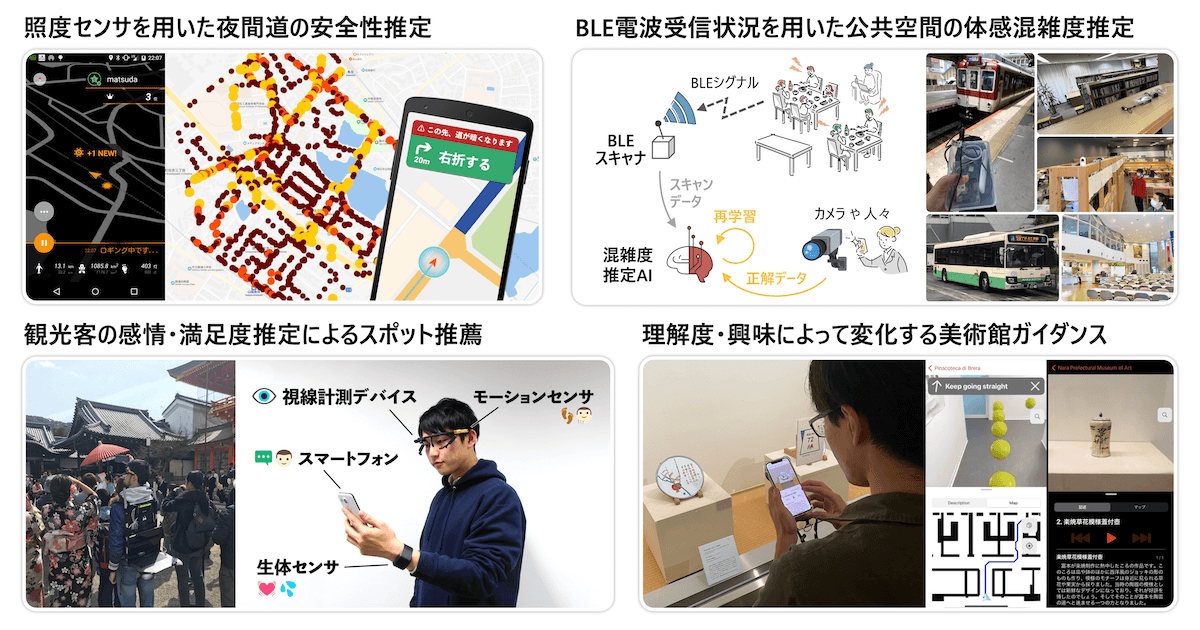
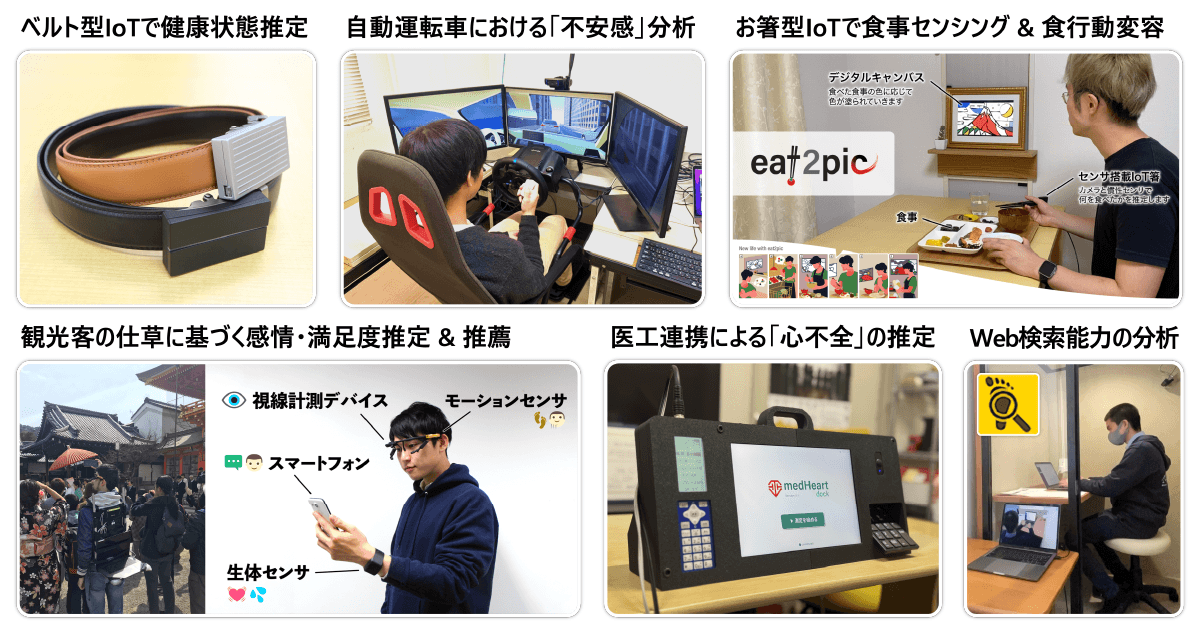
update 202609211037

diff --git a/docs/project/index.html b/docs/project/index.html
@@ -69,31 +69,10 @@
     <nav class="clearfix">
       <ul>
         <li @click="scrollToH3('overview')">概要</li>
-        <li @click="scrollToH3('project-iopt')">IoT・人から見える「世界」を理解し、ナビする
-          <ul>
-            <li @click.stop="scrollToH5('breid-walk')">BReID Walk</li>
-            <li @click.stop="scrollToH5('breid-bus')">BReID Bus</li>
-            <li @click.stop="scrollToH5('blece')">BLECE</li>
-            <li @click.stop="scrollToH5('emotour')">EmoTour</li>
-            <li @click.stop="scrollToH5('museum-guide')">Convivial Museum Guide</li>
-            <li @click.stop="scrollToH5('musemate')">MuseMate</li>
-            <li @click.stop="scrollToH5('sorashiru')">ソラシル</li>
-            <li @click.stop="scrollToH5('discaas')">DisCaaS</li>
-          </ul>
-        <li @click="scrollToH3('project-device')">新しいIoT・AIを発明する
-          <ul>
-            <li @click.stop="scrollToH5('abacaas')">AbaCaaS</li>
-            <li @click.stop="scrollToH5('calcquest')">CalcQuest</li>
-            <li @click.stop="scrollToH5('tongar')">Tongar</li>
-          </ul>
-        <li @click="scrollToH3('project-platform')">データ収集・活用基盤を社会実装する
-          <ul>
-            <li @click.stop="scrollToH5('tameshiba')">ためしば</li>
-            <li @click.stop="scrollToH5('repot')">レポっと</li>
-            <li @click.stop="scrollToH5('nishorobo')">にしょロボくん</li>
-            <li @click.stop="scrollToH5('minsapo')">みんサポ</li>
-          </ul>
-        </li>
+        <li @click="scrollToH3('human-state-aiot')">人の状態を理解するAIoT</li>
+        <li @click="scrollToH3('human-ability-aiot')">人の能力を育てるAIoT</li>
+        <li @click="scrollToH3('urban-spatial-aiot')">都市・空間の状況を理解するAIoT</li>
+        <li @click="scrollToH3('social-implementation')">研究成果の社会実装</li>
         <li @click="scrollToH3('collabo-proj')">共同研究・連携機関</li>
       </ul>
     </nav>
@@ -101,71 +80,36 @@
       <section id="overview">
         <h3><span>概要</span></h3>
         <div class="clearfix container-flex-right-img">
-          <img src="./img/project-1.png" alt="人から見える「世界」を理解し、ナビする">
-          <h4 class="no-sticky">IoT・人から見える「世界」を理解し、ナビする</h4>
+          <img src="./img/project-1.png" alt="人の状態を理解するAIoTの研究例">
+          <h4 class="no-sticky">人の状態を理解するAIoT</h4>
           <p>
-            人から見えている「世界」は、IoTで観測できる「世界」とは少し異なっていることがあります。
-            IoTがこの“差”を理解できるようになれば、これまでにないナビゲーションや情報推薦が実現できる可能性があります。
-            そのために、人を情報システムに組み込むHuman-in-the-loopなアプローチ（参加型センシングなど）によって、人から見えている「世界」をモデリングする研究について取り組んでいます。
+            ウェアラブルデバイスやカメラ、各種センサを用いて、健康状態、感情、満足度、不安感、食行動などを捉える研究です。人の内面や行動をAIで読み解き、一人ひとりの状況に合った支援や情報推薦につなげることで、安心して健やかに暮らせる社会を目指します。ベルト型IoTによる健康管理や運転時の不安感分析、食事センシング、観光客の感情推定など、多様な場面を対象としています。
           </p>
         </div>
         <div class="clearfix container-flex-right-img">
-          <img src="./img/project-2.png" alt="新しいIoT・AIを発明する">
-          <h4 class="no-sticky">新しいIoT・AIを発明する</h4>
+          <img src="./img/project-2.png" alt="人の能力を育てるAIoTの研究例">
+          <h4 class="no-sticky">人の能力を育てるAIoT</h4>
           <p class="clearfix">
-            現在市販されているIoTを用いることで、様々な人や環境をセンシングしたり情報を提示したりすることが可能ですが、全てが網羅されているわけではありません。新たなIoTやAIを発明することによって、今までにセンシングできなかった情報を得られたり、それに基づく情報提示が実現でる可能性があります。そのために、ハードウェアからソフトウェアに至るまで、IoTのセンシング・データ処理・情報提示の方法を編み出す研究に取り組んでいます。
+            珠算の計算過程、美術鑑賞時の対話、競歩やバランス運動などをセンシングし、学習や技能の向上を支える研究です。AIによる助言や対話、個人に合った情報提示を通して、誰もが楽しみながら主体的に学び、能力を伸ばせる体験の実現を目指します。学習者のつまずきや動作の特徴を捉え、ゲーム要素や対話型AI、ウェアラブル機器を通じて、継続的な挑戦と上達を後押しします。
           </p>
         </div>
         <div class="clearfix container-flex-right-img">
-          <img src="./img/project-3.png" alt="データ収集・活用基盤を社会実装する">
-          <h4 class="no-sticky">データ収集・活用基盤を社会実装する</h4>
+          <img src="./img/project-3.png" alt="都市・空間の状況を理解するAIoTの研究例">
+          <h4 class="no-sticky">都市・空間の状況を理解するAIoT</h4>
           <p class="clearfix">
-            研究開発したIoT・AIを社会実装していくためには、ITに精通していない人々でも簡単に技術を扱うことができ、かつ、持続可能な形で運用できるようなシステム・仕組みを構築することが肝要です。その実現に向けて、街に存在する様々なコミュニティや活動と連携しつつ、システムを運用する方法を実践的に模索する研究に取り組んでいます。
+            BLE電波、照度センサ、カメラなどを活用し、人流や混雑度、夜間道路の安全性、路面や街なかの状態を捉える研究です。プライバシーに配慮しながら都市・交通・生活空間を継続的に観測し、安全で快適なまちづくりに役立つ情報として可視化します。公共交通や駅、商業施設、道路などで収集したデータを分析し、混雑緩和、移動支援、設備点検や環境改善への活用を目指します。
+          </p>
+        </div>
+        <div class="clearfix container-flex-right-img">
+          <img src="./img/project-4.png" alt="研究成果の社会実装例">
+          <h4 class="no-sticky">研究成果の社会実装</h4>
+          <p class="clearfix">
+            研究室で生まれた技術を、学校、地域、企業、文化施設などの現場で活用できる仕組みへ発展させます。地域の人々や連携機関と試行と改善を重ね、専門知識がなくても使いやすく、日々の活動の中で持続的に運用できるシステムやサービスを共につくります。小学校での地域学習、位置情報付き写真の収集、地域イベントの可視化、現場のトラブル支援などを通じて、研究成果を社会へ届けます。
           </p>
         </div>
       </section>
-      <section id="project-iopt">
-        <h3><span>IoT・人から見える「世界」を理解し、ナビする</span></h3>
-        <div id="blece-breid">
-          <h4>BLEを用いた都市・交通空間の人流・混雑度推定</h4>
-          <div class="clearfix container-flex-right-img">
-            <img src="./img/pj-BReID-BLECE.png" alt="BLEを用いた都市・交通空間の人流・混雑度推定">
-            <p>
-              都市や公共交通、飲食店、公共施設などにおいて、「どこに人が集まっているのか」「人がどこからどこへ移動しているのか」を把握することは、都市計画、交通改善、混雑緩和、観光・商業施策、ナビゲーションなどに役立ちます。
-              このプロジェクトでは、スマートフォンやスマートウォッチなどの電子機器から発信されるBLE（Bluetooth Low Energy）アドバタイジングパケットを環境側で観測し、プライバシーに配慮しながら都市・交通空間における人流と混雑度を推定することを目指しています。
-            </p>
-            <p>
-              BLECEでは、人が空間にどれくらい滞在しているかを捉え、混雑度や体感混雑度を推定します。
-              BReIDでは、人が地点間をどのように移動しているかを捉え、都市内の回遊行動や路線バスのODデータを推定します。
-            </p>
-            <p><a href="https://scrapbox.io/cocolab-jp/BLECE%2FBReID">▶ 詳細はこちら</a></p>
-          </div>
-
-          <div class="project-card" id="breid-walk">
-            <h5>BReID Walk: 都市空間の人流推定</h5>
-            <p>
-              都市空間に複数のBLEスキャナを設置し、人々が「どこ」から「どこ」へ移動するのかを推定するプロジェクトです。
-              スマートフォンなどから発信されるBLEのランダム化MACアドレスや電波受信状況を手がかりに、デバイス系列を一定範囲で再同定（Re-identification）することで、街なかの回遊行動や地点間の移動傾向を把握する手法の確立を目指しています。
-            </p>
-          </div>
-
-          <div class="project-card" id="breid-bus">
-            <h5>BReID Bus: 路線バスのODデータ（乗降ログ）推定</h5>
-            <p>
-              路線バスなどの公共交通機関において、乗客が「どこ」で乗り、「どこ」で降りたのかを表すOD（Origin-Destination）データを推定するプロジェクトです。
-              車内に設置したBLEスキャナで乗客のスマートフォンなどから発信されるBLEアドバタイジングパケットを観測し、ランダム化MACアドレスの変化を考慮しながらデバイス系列を再同定することで、乗車・降車地点の推定を行います。
-            </p>
-          </div>
-
-          <div class="project-card" id="blece">
-            <h5>BLECE: 公共空間の混雑度・体感混雑度推定</h5>
-            <p>
-              交通機関、飲食店、公共施設など、さまざまな空間における混雑度を推定するプロジェクトです。
-              環境側に設置したBLEスキャナで電波の受信状況を観測し、受信パケット数、ユニークなアドレス数、RSSIの分布、時間変化などを分析することで、特定空間の混雑度や人が感じる体感混雑度を推定します。
-              カメラに頼らず、低コストで継続的に利用できる混雑度推定手法の確立を目指しています。
-            </p>
-          </div>
-        </div>
+      <section id="human-state-aiot">
+        <h3><span>人の状態を理解するAIoT</span></h3>
         <div>
           <h4>マルチモーダルセンシングによる心理状態推定＆ナビゲーション</h4>
           <div class="project-card" id="emotour">
@@ -212,75 +156,154 @@
           <div class="project-card" id="discaas">
             <h5>DisCaaS： 360度カメラをセンサとして用いるディスカッション中のマイクロ行動分析</h5>
             <p>
+              DisCaaS（Discussion by Camera as a Sensor）は、1台の360度カメラで、少人数の対面ディスカッションに参加する全員の顔や振る舞いを同時に捉えるシステムです。
+            </p>
+            <p>
+              顔映像から「発話」や「うなずき」といった細かな行動を機械学習で認識し、誰がいつ話し、反応したのかを可視化・定量化します。議論の振り返りやファシリテーション、協働学習の評価に加え、オンライン会議への応用も目指しています。
             </p>
             <p><a href="https://scrapbox.io/cocolab-jp/DisCaaS">▶ 詳細はこちら</a></p>
           </div>
         </div>
-      </section>
-      <section id="project-device">
-        <h3><span>新しいIoT・AIを発明する</span></h3>
         <div>
-          <h4>教育支援</h4>
-          <div class="project-card" id="abacaas">
-            <h5>AbaCaaS： 卓上カメラを用いた珠算学習支援システム</h5>
+          <h4>回答行動のセンシングと品質推定</h4>
+          <div class="project-card" id="annotrust">
+            <h5>AnnoTrust： アノテーション作業における回答品質の推定</h5>
             <p>
-              算術力を獲得するための方法の一つとして、算盤（そろばん）を用いた計算、すなわち「珠算」が現代においても活用されています。珠算による計算は様々な方法・順序で「珠」を操作する必要があるため、習得には長期に渡る繰り返し学習を要することが知られています。学習過程では、様々な計算ミスや苦手な珠操作が生じますが、これらの「つまづき」には規則性・パターンがあると考えられます。
+              AnnoTrustは、機械学習用データを作るアノテーション作業中の操作をセンシングし、回答品質が低下する兆候をリアルタイムに捉えるプロジェクトです。
             </p>
             <p>
-              そこで、卓上カメラをセンサとして用いることで算盤の盤面（入力値）を推定するとともに、苦手を克服するための個人に合わせた問題生成・提示などによって、「珠算」の能力習得を支援する方法の確立を目指しています。
+              スマートフォンの向きや画面操作などから回答行動の特徴を抽出し、機械学習で品質低下を推定します。不良回答を早期に検知・防止し、クラウドソーシングで信頼できる学習データを効率よく収集することを目指しています。
+            </p>
+            <p><a href="https://scrapbox.io/cocolab-jp/AnnoTrust_%2F_SurveySense">▶ 詳細はこちら</a></p>
+          </div>
+          <div class="project-card" id="surveysense">
+            <h5>SurveySense： オンラインアンケートにおける不適切回答の検出</h5>
+            <p>
+              SurveySenseは、オンラインアンケート回答時の画面操作ログを分析し、設問を十分に読まず最小限の労力で回答する「Satisficing」の発生を捉えるプロジェクトです。
+            </p>
+            <p>
+              回答時間やカーソル・タッチ操作など、回答中に自然に得られる情報から回答者の取り組み方を推定します。質問を追加して負担を増やすことなく、調査データの信頼性を高める仕組みの実現を目指しています。
+            </p>
+            <p><a href="https://scrapbox.io/cocolab-jp/AnnoTrust_%2F_SurveySense">▶ 詳細はこちら</a></p>
+          </div>
+        </div>
+      </section>
+      <section id="human-ability-aiot">
+        <h3><span>人の能力を育てるAIoT</span></h3>
+        <div id="abacaas-series">
+          <h4>珠算行動センシングに基づく珠算学習支援</h4>
+          <div class="clearfix">
+            <p>
+              珠算では、問題に応じてさまざまな方法や順序で珠を操作するため、習得には長期にわたる反復学習が必要です。学習中に生じる計算ミスや苦手な珠操作には規則性があると考えられますが、従来は指導者が学習者の手元を観察して見つける必要がありました。
+            </p>
+            <p>
+              本研究では、市販の算盤をカメラで撮影し、画像認識によって盤面の数値や操作過程を推定します。学習履歴やつまずきを自動的に捉え、一人ひとりに合った問題やフィードバックを提示することで、自律的で継続しやすい珠算学習の実現を目指しています。
             </p>
             <p><a href="https://scrapbox.io/cocolab-jp/AbaCaaS_%2F_AbaCaaS_mini_%2F_CalcQuest">▶ 詳細はこちら</a></p>
+          </div>
+          <div class="project-card" id="abacaas">
+            <h5>AbaCaaS： 書画カメラを用いた珠算行動センシング</h5>
+            <p>
+              書画カメラで市販の算盤を上方から撮影し、ARマーカを手がかりに盤面領域を特定して、画像認識により入力された数値を推定するシステムです。算盤そのものに電子部品を組み込まず、普段使っている道具をそのまま利用しながら、計算結果だけでなく操作過程も記録・分析できる学習環境の構築を目指しています。
+            </p>
+          </div>
+          <div class="project-card" id="abacaas-mini">
+            <h5>AbaCaaS mini： モバイルデバイスのインカメラを用いた珠算行動センシング</h5>
+            <p>
+              AbaCaaS miniは、タブレット端末のインカメラと反射鏡を用いて学習者の手元を撮影し、市販の算盤に入力された数値や操作の完了を画像認識で推定するシステムです。書画カメラやミニPCなどの外部機材を必要とせず、タブレット端末を中心とした小型で持ち運びやすい学習環境を実現します。
+            </p>
+            <p>
+              使用時に反射鏡を適切な角度で展開し、未使用時には通常の保護ケースとして利用できる反射鏡一体型ケースも開発しています。学習者が算盤から手を離したタイミングを映像から検出することで、画面操作を挟まず、算盤操作だけで自然に解答を確定できる教材への応用を進めています。
+            </p>
           </div>
           <div class="project-card" id="calcquest">
             <h5>CalcQuest： 苦手克服のためのゲーム要素を取り入れた珠算学習支援システム</h5>
             <p>
-              AbaCaaSの仕組みを応用し、苦手克服のための計算問題に「楽しく」取り組めるようにゲーム要素を取り入れた学習支援システムです。RPGのようなPvE（Player vs. Environment）形式のゲームを採用することで、学習者が進んで苦手な問題に挑戦できる仕組みとなっています。
+              AbaCaaSの盤面認識を活用して学習者の苦手な珠操作を検出し、その克服に適した計算問題を個別に生成する学習支援システムです。RPGのようにプレイヤーと敵が交互に攻撃するPvE形式のゲームを採用し、反復練習による負担を抑えながら、学習者が楽しんで苦手な問題へ挑戦できる仕組みを実現しています。
             </p>
-            <p><a href="https://scrapbox.io/cocolab-jp/AbaCaaS_%2F_AbaCaaS_mini_%2F_CalcQuest">▶ 詳細はこちら</a></p>
           </div>
         </div>
         <div>
           <h4>スポーツ支援</h4>
-          <div class="project-card" id="calcquest">
-            <h5>靴装着型ウェアラブルセンサを用いた競歩フォーム評価・指導システム</h5>
+          <div class="project-card" id="coarawalk">
+            <h5>CoaRaWalk： ウェアラブルセンサと機械学習を用いた競歩コーチングシステム</h5>
             <p>
-              競歩における2つの重要ルール（両足が同時に地面を離れてはいけない「LC（ロス・オブ・コンタクト）」、接地から垂直になるまで膝を曲げてはいけない「KB（ベントニー）」）を、審判なしでも検出できるようにする初心者向け練習支援システムの構築を目指しています。
+              CoaRaWalk（A Wearable Coaching System for Race Walking）は、靴や腰に装着した小型センサで足・身体の動きを計測し、機械学習によって競歩のフォームを評価する練習支援プロジェクトです。
             </p>
             <p>
-              そこで、靴の履き口や踵に簡易に装着できる慣性センサ＋地面までの距離を計測する測距センサを組み合わせた靴装着型デバイスを設計し、得られたデータから反則判定を行うモデルを構築しています。
+              両足が同時に地面から離れる「LC（ロス・オブ・コンタクト）」や、前脚の膝が曲がる「KB（ベント・ニー）」といった競歩特有のルール違反を自動的に検出し、発生したタイミングやフォームの改善点を分かりやすく提示することを目指しています。指導者や審判がいない環境でも、競技者が自分のフォームを客観的に振り返り、継続的に練習できるコーチングシステムの実現に取り組んでいます。
             </p>
-          </div>
-        </div>
-        <div>
-          <h4>街のセンシング</h4>
-          <div class="project-card" id="tongar">
-            <h5>Tongar： トングでゴミ拾いするだけでポイ捨てゴミの種別・位置を記録するシステム</h5>
-            <p>
-              近年、奈良公園のシカをはじめ、野生の動物が誤ってポイ捨てゴミを食べて死に至る状況が発生しています。この点にとどまらず“ポイ捨て”は深刻な環境問題であり、解決が望まれています。Tongarは、ゴミ拾いに利用するトングにカメラを搭載し「どこ」で「どんな」ゴミが「いつ」捨てられているのかの情報を自動で収集するシステムです。
-            </p>
-            <p><a href="https://scrapbox.io/cocolab-jp/Tongar">▶ 詳細はこちら</a></p>
+            <p><a href="https://scrapbox.io/cocolab-jp/CoaRaWalk">▶ 詳細はこちら</a></p>
           </div>
         </div>
       </section>
-      <section id="project-platform">
-        <h3><span>データ収集・活用基盤を社会実装する</span></h3>
+      <section id="urban-spatial-aiot">
+        <h3><span>都市・空間の状況を理解するAIoT</span></h3>
+        <div id="blece-breid">
+          <h4>BLEを用いた都市・交通空間の人流・混雑度推定</h4>
+          <div class="clearfix container-flex-right-img">
+            <img src="./img/pj-BReID-BLECE.png" alt="BLEを用いた都市・交通空間の人流・混雑度推定">
+            <p>
+              都市や公共交通、飲食店、公共施設などにおいて、「どこに人が集まっているのか」「人がどこからどこへ移動しているのか」を把握することは、都市計画、交通改善、混雑緩和、観光・商業施策、ナビゲーションなどに役立ちます。
+              このプロジェクトでは、スマートフォンやスマートウォッチなどの電子機器から発信されるBLE（Bluetooth Low Energy）アドバタイジングパケットを環境側で観測し、プライバシーに配慮しながら都市・交通空間における人流と混雑度を推定することを目指しています。
+            </p>
+            <p>
+              BLECEでは、人が空間にどれくらい滞在しているかを捉え、混雑度や体感混雑度を推定します。
+              BReIDでは、人が地点間をどのように移動しているかを捉え、都市内の回遊行動や路線バスのODデータを推定します。
+            </p>
+            <p><a href="https://scrapbox.io/cocolab-jp/BLECE%2FBReID">▶ 詳細はこちら</a></p>
+          </div>
+          <div class="project-card" id="breid-walk">
+            <h5>BReID Walk: 都市空間の人流推定</h5>
+            <p>都市空間に複数のBLEスキャナを設置し、BLEのランダム化MACアドレスや電波受信状況を手がかりに、街なかの回遊行動や地点間の移動傾向を把握する手法の確立を目指しています。</p>
+          </div>
+          <div class="project-card" id="breid-bus">
+            <h5>BReID Bus: 路線バスのODデータ（乗降ログ）推定</h5>
+            <p>車内で観測したBLEアドバタイジングパケットからデバイス系列を再同定し、乗客の乗車・降車地点を表すOD（Origin-Destination）データを推定します。</p>
+          </div>
+          <div class="project-card" id="blece">
+            <h5>BLECE: 公共空間の混雑度・体感混雑度推定</h5>
+            <p>BLE電波の受信状況を分析し、交通機関、飲食店、公共施設などの混雑度や体感混雑度を、カメラに頼らず低コストで継続的に推定する手法の確立を目指しています。</p>
+          </div>
+        </div>
+        <div>
+          <h4>街の参加型センシング</h4>
+          <div class="project-card" id="tongar">
+            <h5>Tongar： トングでゴミ拾いするだけでポイ捨てゴミの種別・位置を記録するシステム</h5>
+            <p>ゴミ拾い用のトングにカメラを搭載し、「どこ」で「どんな」ゴミが「いつ」捨てられていたのかを自動で収集します。ポイ捨ての実態を可視化し、環境問題の解決に役立てることを目指しています。</p>
+            <p><a href="https://scrapbox.io/cocolab-jp/Tongar">▶ 詳細はこちら</a></p>
+          </div>
+          <div class="project-card" id="brailoop">
+            <h5>BraiLoop： 自転車ユーザ参加型センシングによる点字ブロックの点検・可視化</h5>
+            <p>
+              自転車に小型カメラやGPSモジュールを取り付け、普段の移動中に路面画像と位置情報を収集するプロジェクトです。
+              AIを用いて画像から点字ブロックの配置や種別、劣化状況を検出し、地図上に可視化することで、点検・維持管理の負担を軽減し、視覚障害者が安全で快適に移動できる街の実現を目指しています。
+            </p>
+            <p><a href="https://scrapbox.io/cocolab-jp/BraiLoop">▶ 詳細はこちら</a></p>
+          </div>
+        </div>
+      </section>
+      <section id="social-implementation">
+        <h3><span>研究成果の社会実装</span></h3>
         <div>
           <h4>プラットフォーム</h4>
           <div class="project-card" id="tameshiba">
-            <h5>ためしば： ボトムアップ式のスマートシティアプリ</h5>
+            <h5>ためしば： 市民みんなで育てる「まちの実験場」</h5>
             <p>
-              自治体だけでなく、市民や民間企業、大学といった様々な組織に属する人たちみんなで創るスマートシティアプリです。シビックテック（Civic Tech）の考え方で、オープンに街を良くするためのプラットフォームとして利用できるようにすることを目指しています。
+              「ためしば」は、自治体だけでなく、市民、民間企業、大学など、地域に関わる人々が一緒にまちをより便利で楽しくしていく、ボトムアップ型のスマートシティアプリです。完成したサービスを一方的に提供するのではなく、みんなの発想や活動に応じて機能が増え、自由自在に変化していく「まちの実験場」を目指しています。
+            </p>
+            <p>
+              アプリでは、ごみ収集スケジュールや給食献立、避難所情報など、暮らしに役立つさまざまなミニアプリを利用できます。また、地域の写真や街の状況を投稿したり、地域の出来事や活動を応援したりすることもできます。シビックテックの考え方に基づき、市民一人ひとりが情報の受け手にとどまらず、まちづくりに参加するプレイヤーとなれる基盤を構築しています。
             </p>
             <p><a href="https://www.iopt.jp/tameshiba">▶ 詳細はこちら</a></p>
           </div>
           <div class="project-card" id="repot">
-            <h5>レポっと： ブラウザで動作するユーザ参加型位置情報付き写真収集システム</h5>
+            <h5>レポっと： みんなの視点で街を記録する位置情報付き写真収集プラットフォーム</h5>
             <p>
-              「レポっと」は、みんなの視点で見た街の様子を共有するためのプラットフォームです。
-              ブラウザだけで動作し、位置情報付きの写真📸・コメント💭・ハッシュタグ🔖 を投稿することができます。
+              「レポっと」は、市民やイベント参加者など、さまざまな人の視点から見た街の様子を収集・共有する参加型センシングプラットフォームです。専用アプリをインストールせずWebブラウザから利用でき、位置情報付きの写真、コメント、ハッシュタグを手軽に投稿できます。
             </p>
             <p>
-              集めたデータはデジタルアーカイブ化し、オープンデータとして公開しています。
+              独自のハッシュタグを設定することで、街歩きや地域調査、季節の風景の記録、イベント参加者による共同収集など、目的に応じたデータ収集を行えます。これまでにも街の桜や中国・四国地方の魚の釣果など、多様なテーマで活用されてきました。集めた位置情報付き写真はデジタルアーカイブとして整理し、一部をオープンデータとして公開することで、地域の記録や研究、まちづくりへの再利用につなげています。
             </p>
             <p><a href="https://www.iopt.jp/repot">▶ 詳細はこちら</a></p>
             <p><a href="https://repot-archive.cocolab.jp/">▷ 収集データのアーカイブはこちら</a></p>
@@ -291,6 +314,19 @@
               子供目線で地域の情報を収集して「世界に一つだけの地域のデジタル図鑑：にしょロボくん」を創る、全校縦割り活動プロジェクトです。ワークシートやギガスクール端末を用いて様々な形式（テキスト・写真・音声・動画・地図・絵…）でニッチな街の情報を可視化します。
             </p>
             <p><a href="https://www.iopt.jp/nishorobo">▶ 詳細はこちら</a></p>
+          </div>
+        </div>
+        <div>
+          <h4>産学連携による技術実装</h4>
+          <div class="project-card" id="tot">
+            <h5>ToT： 電話回線を用いた遠隔設備保全システム</h5>
+            <p>
+              ToT（Telephone of Things）は、株式会社カワカミとの共同研究から生まれた、設備機器の電話サポートを支援するシステムです。既存の電話回線を使うため、現場にインターネット環境がなくても導入できます。
+            </p>
+            <p>
+              通話音声に機器向けの信号を重ねて送り、遠隔地にある設備の問題箇所をライトで指し示したり、モニターに画像を表示したりします。利用者と担当者の認識を視覚的に揃え、トラブル対応の簡易化・省力化を目指しています。
+            </p>
+            <p><a href="https://scrapbox.io/cocolab-jp/ToT:_Telephone_of_Things">▶ 詳細はこちら</a></p>
           </div>
         </div>
         <div>
@@ -326,6 +362,7 @@
               <li>近鉄ケーブルネットワーク株式会社</li>
               <li>一般財団法人西粟倉むらまるごと研究所</li>
               <li>株式会社ローカルメディアラボ</li>
+              <li>ピープルソフトウェア株式会社</li>
             </ul>
           <li>大学・学術機関
             <ul>
@@ -336,6 +373,8 @@
               <li>大阪公立大学</li>
               <li>慶應義塾ミュージアム・コモンズ</li>
               <li>京都橘大学</li>
+              <li>ノートルダム清心女子大学</li>
+              <li>立命館大学</li>
             </ul>
         </ul>
       </section>
